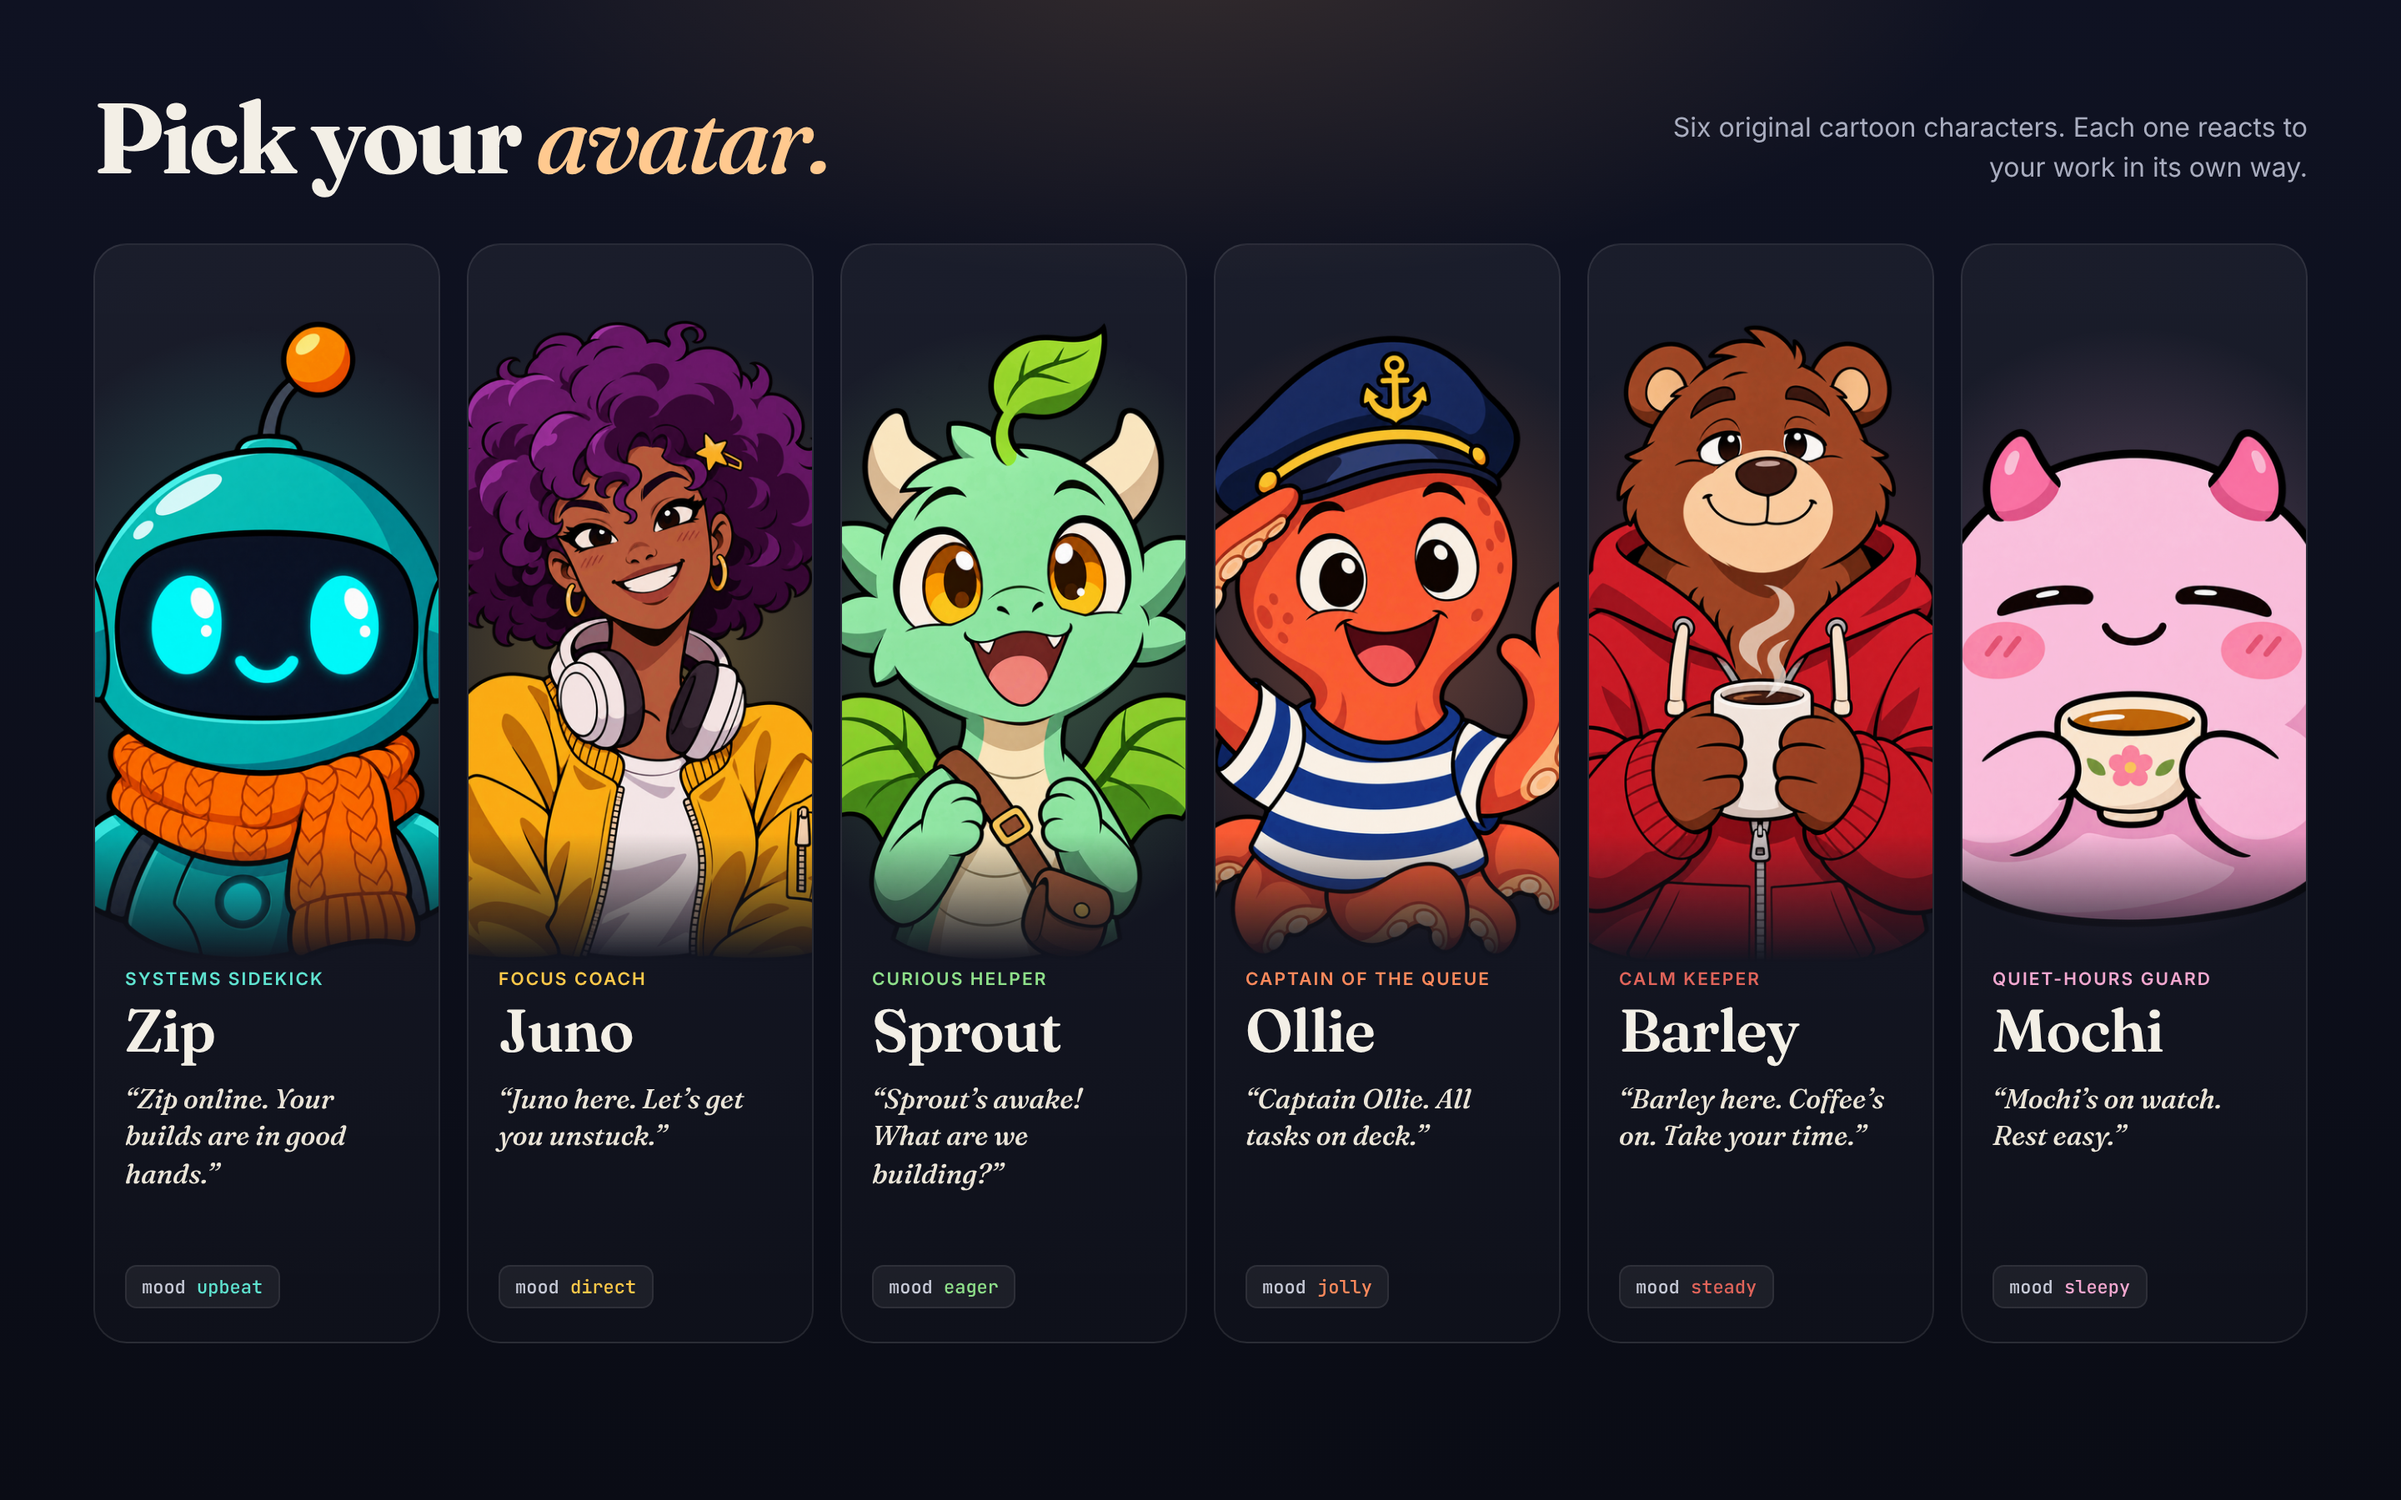
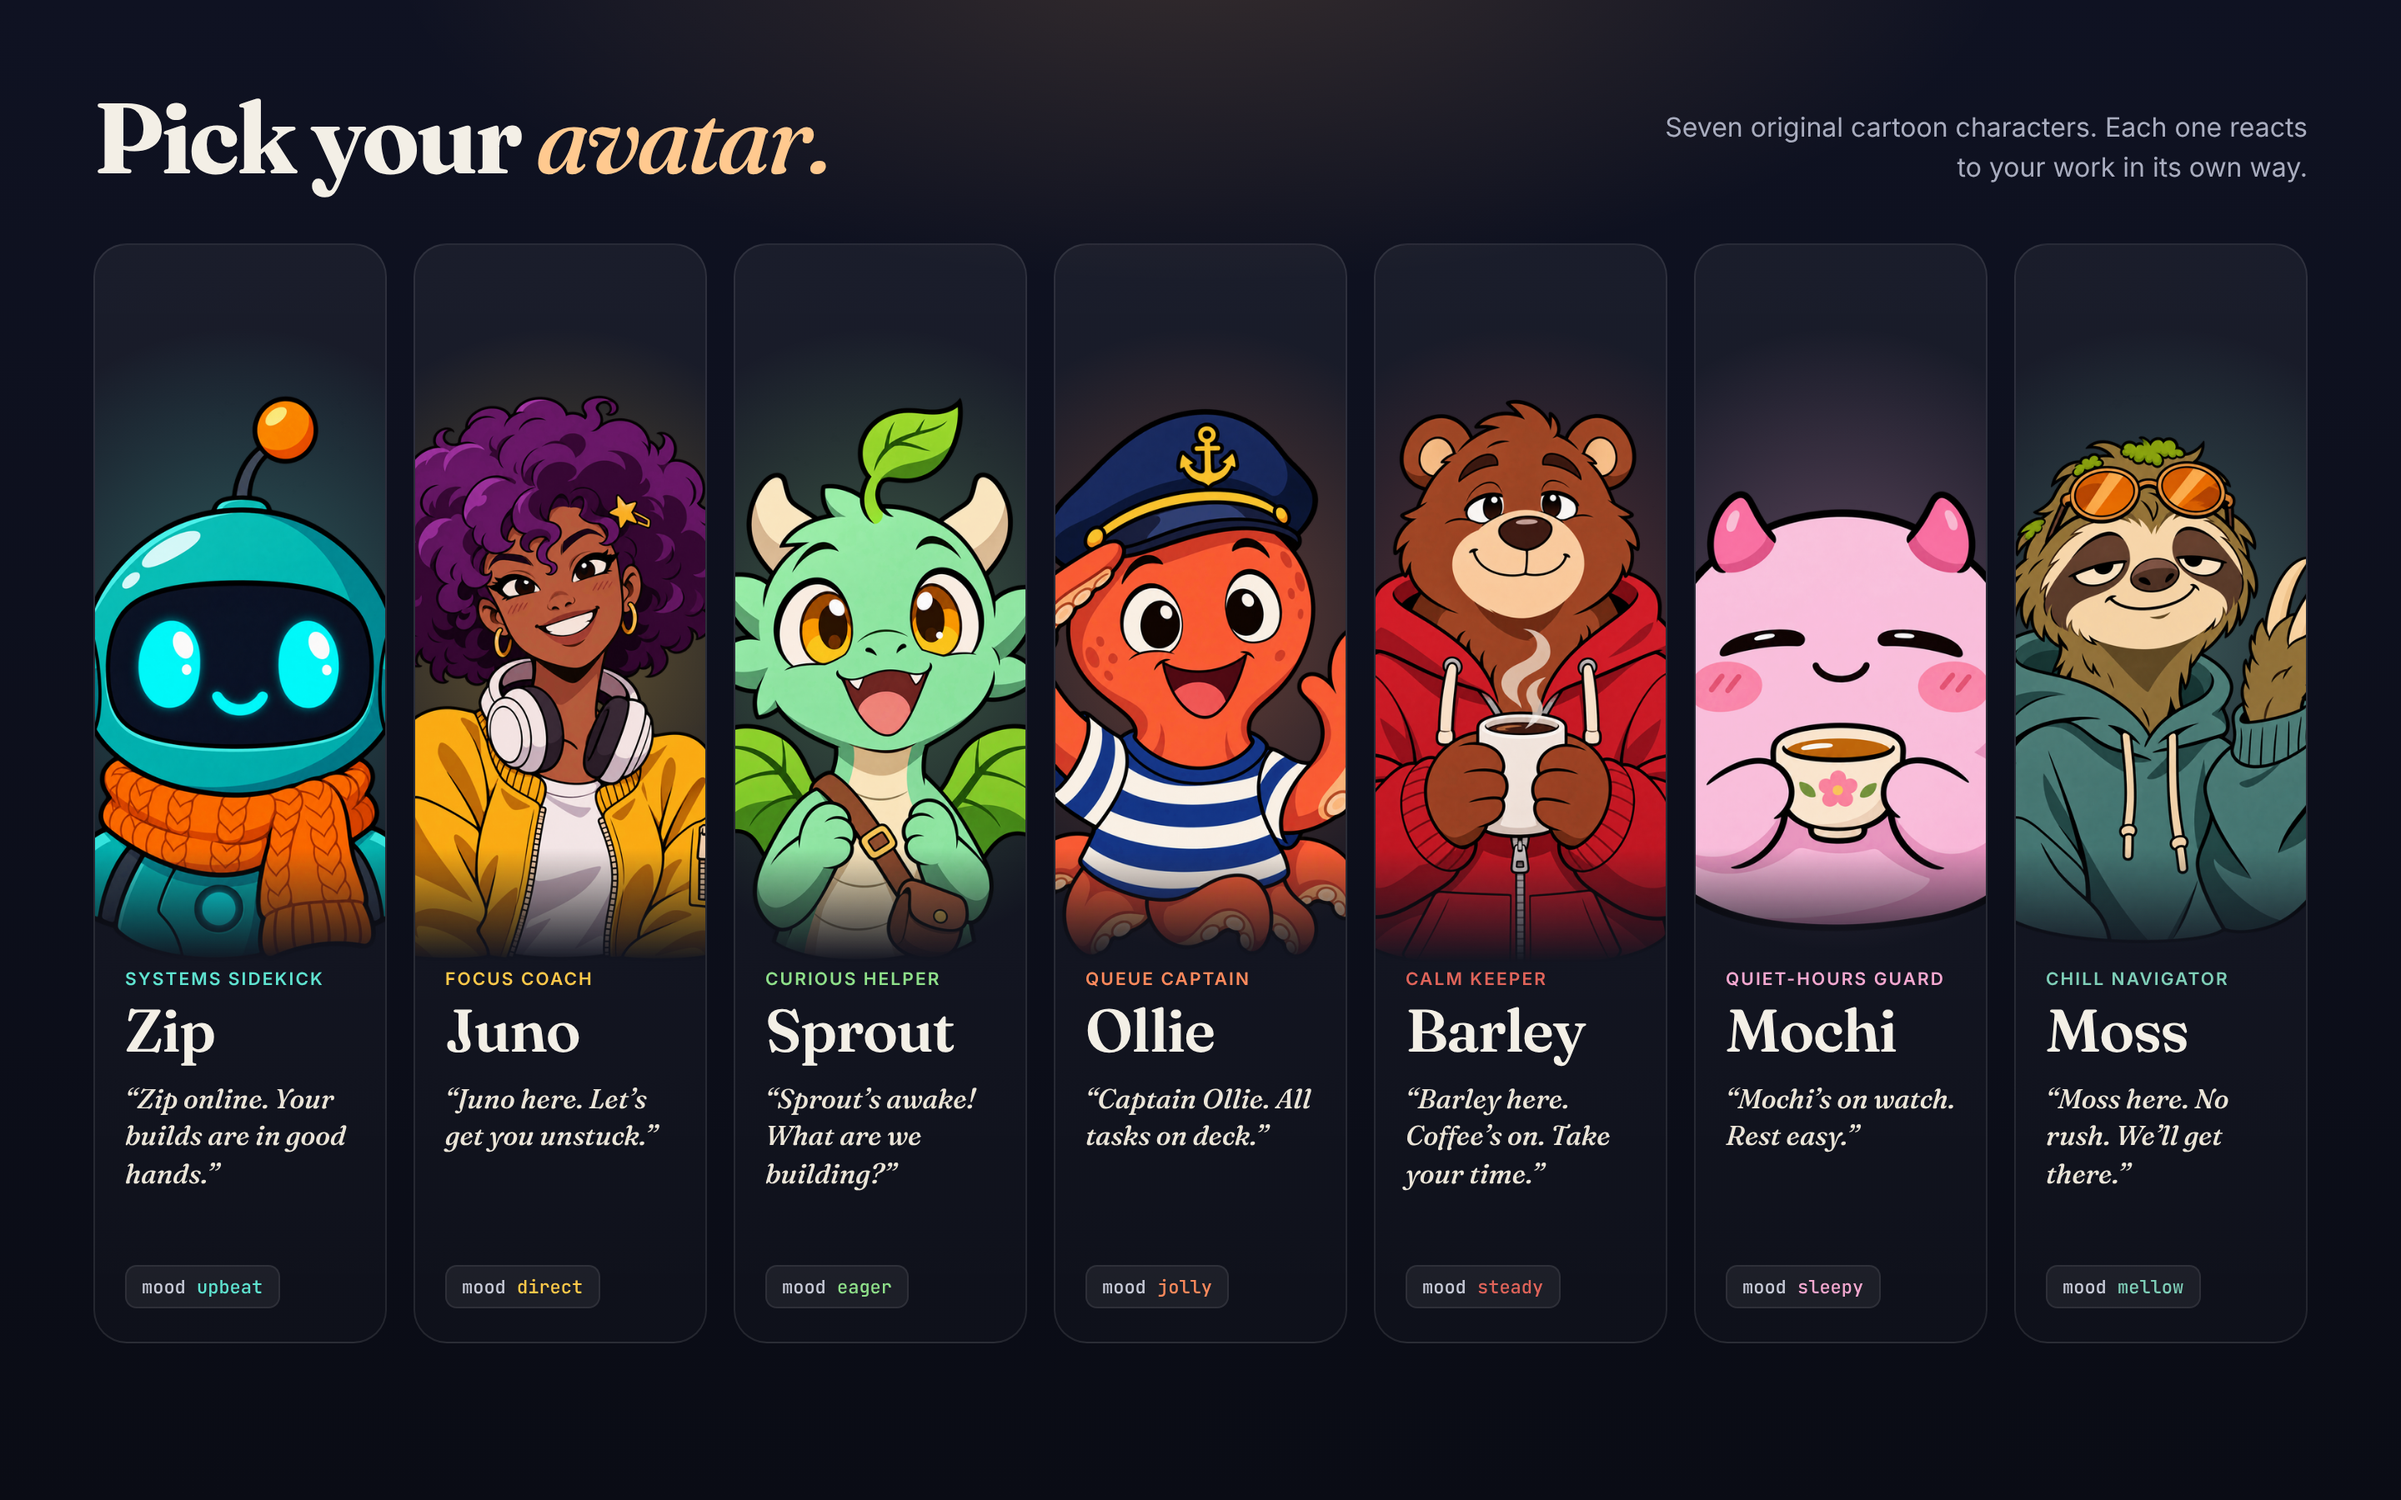
overlay: add Moss, a laid-back sloth, to the cartoon set
- New 2D persona Moss (art in overlay/avatars/toons/moss.png), with
  voice, role, greeting, and delivery style in main.js and kin-say.py.
- Picker: four columns, so all 13 personas fit without scrolling (the
  scrollbar is hidden, so a fifth row was easy to miss).
- docs: cast-toons.png now shows seven characters; README and DEMO say
  thirteen.

Claude-Session: https://claude.ai/code/session_01TxZr4QvqbLzUR8MBftmdr8

diff --git a/docs/promo-src/cast-toons.html b/docs/promo-src/cast-toons.html
@@ -12,11 +12,11 @@
   h2{font-family:Fraunces,serif;font-weight:700;font-size:60px;letter-spacing:-.03em;line-height:1}
   h2 em{font-style:italic;font-weight:500;color:#ffc98f}
   header p{font-size:16px;line-height:1.5;color:#a9adbf;width:400px;text-align:right}
-  .grid{display:grid;grid-template-columns:repeat(6,1fr);gap:16px}
+  .grid{display:grid;grid-template-columns:repeat(7,1fr);gap:16px}
   .card{--a:#ffb86b;position:relative;height:660px;border-radius:20px;overflow:hidden;display:flex;flex-direction:column;
     background:linear-gradient(180deg,rgba(255,255,255,.05),rgba(255,255,255,.02));border:1px solid rgba(255,255,255,.09)}
   .face{position:relative;height:430px;overflow:hidden;background:radial-gradient(240px 260px at 50% 55%, color-mix(in srgb,var(--a) 34%,transparent), transparent 72%)}
-  .face img{position:absolute;left:50%;bottom:0;height:385px;transform:translateX(-50%);-webkit-mask-image:linear-gradient(180deg,#000 80%,transparent 100%)}
+  .face img{position:absolute;left:50%;bottom:0;height:340px;transform:translateX(-50%);-webkit-mask-image:linear-gradient(180deg,#000 80%,transparent 100%)}
   
   
   .body{position:relative;flex:1;padding:4px 18px 20px;display:flex;flex-direction:column}
@@ -30,7 +30,7 @@
 <body><div class="stage">
   <header>
     <h2>Pick your <em>avatar.</em></h2>
-    <p>Six original cartoon characters. Each one reacts to your work in its own way.</p>
+    <p>Seven original cartoon characters. Each one reacts to your work in its own way.</p>
   </header>
   <div class="grid">
     <div class="card" style="--a:#5fe3d0">
@@ -50,7 +50,7 @@
         <span class="chip">mood <b>eager</b></span></div></div>
     <div class="card" style="--a:#ff8a5c">
       <div class="face"><img src="toons/ollie.png"></div>
-      <div class="body"><div class="role">Captain of the queue</div><div class="name">Ollie</div>
+      <div class="body"><div class="role">Queue captain</div><div class="name">Ollie</div>
         <div class="greet">“Captain Ollie. All tasks on deck.”</div>
         <span class="chip">mood <b>jolly</b></span></div></div>
     <div class="card" style="--a:#e0645a">
@@ -63,5 +63,10 @@
       <div class="body"><div class="role">Quiet-hours guard</div><div class="name">Mochi</div>
         <div class="greet">“Mochi’s on watch. Rest easy.”</div>
         <span class="chip">mood <b>sleepy</b></span></div></div>
+    <div class="card" style="--a:#7fcfb8">
+      <div class="face"><img src="toons/moss.png"></div>
+      <div class="body"><div class="role">Chill navigator</div><div class="name">Moss</div>
+        <div class="greet">“Moss here. No rush. We’ll get there.”</div>
+        <span class="chip">mood <b>mellow</b></span></div></div>
   </div>
 </div></body></html>

diff --git a/overlay/main.js b/overlay/main.js
@@ -883,6 +883,7 @@ const AVATAR_VOICES = {
   ollie: { voice: "ash", role: "Captain of the Queue", greet: "Captain Ollie. All tasks on deck.", instructions: "Jolly octopus ship captain: hearty, playful." },
   barley: { voice: "ballad", role: "Calm Keeper", greet: "Barley here. Coffee's on. Take your time.", instructions: "Calm bear: slow, warm, steady." },
   mochi: { voice: "shimmer", role: "Quiet-Hours Guard", greet: "Mochi's on watch. Rest easy.", instructions: "Sleepy soft creature: gentle, hushed, soothing." },
+  moss: { voice: "onyx", role: "Chill Navigator", greet: "Moss here. No rush. We'll get there.", instructions: "Laid-back sloth: slow, mellow, unbothered, a little amused." },
 };
 
 function speakCharacterLine(voice, text, instructions) {

diff --git a/overlay/index.html b/overlay/index.html
@@ -496,7 +496,8 @@
     border-radius: 12px;
     padding: 8px;
     display: none;
-    grid-template-columns: repeat(3, 1fr);
+    /* Four columns keep all 13 personas visible without scrolling. */
+    grid-template-columns: repeat(4, 1fr);
     gap: 5px;
     box-shadow: 0 18px 44px rgba(0, 0, 0, 0.7);
     max-height: 330px;
@@ -654,6 +655,7 @@ const PERSONAS = [
   { id: "ollie", label: "Ollie", kind: "2d" },
   { id: "barley", label: "Barley", kind: "2d" },
   { id: "mochi", label: "Mochi", kind: "2d" },
+  { id: "moss", label: "Moss", kind: "2d" },
 ];
 const is2D = (p) => p?.kind === "2d";
 

diff --git a/overlay/kin-2d.js b/overlay/kin-2d.js
@@ -8,7 +8,7 @@ const PDIR = "./avatars/persona-art/";
 // The cartoon personas are 2D only: their art lives in its own folder, apart
 // from persona-art/ (the 3D busts' picker renders).
 const TOON_DIR = "./avatars/toons/";
-const TOON_IDS = ["zip", "juno", "sprout", "ollie", "barley", "mochi"];
+const TOON_IDS = ["zip", "juno", "sprout", "ollie", "barley", "mochi", "moss"];
 const PORTRAIT_IDS = ["kin", "elena", "vance", "kael", "sera", "freya", ...TOON_IDS];
 const portraitSrc = (id, kind) =>
   `${TOON_IDS.includes(id) ? TOON_DIR : PDIR}${id}${kind ? `-${kind}` : ""}.png`;

diff --git a/overlay/tools/kin-say.py b/overlay/tools/kin-say.py
@@ -32,6 +32,7 @@ CHARACTERS = {
     "ollie": {"voice": "ash", "instructions": "Jolly octopus ship captain: hearty, playful.", "greet": "Captain Ollie. All tasks on deck."},
     "barley": {"voice": "ballad", "instructions": "Calm bear: slow, warm, steady.", "greet": "Barley here. Coffee's on. Take your time."},
     "mochi": {"voice": "shimmer", "instructions": "Sleepy soft creature: gentle, hushed, soothing.", "greet": "Mochi's on watch. Rest easy."},
+    "moss": {"voice": "onyx", "instructions": "Laid-back sloth: slow, mellow, unbothered, a little amused.", "greet": "Moss here. No rush. We'll get there."},
 }
 
 PORTRAIT_DIR = os.path.join(os.path.dirname(__file__), "..", "avatars", "persona-art")

diff --git a/DEMO.md b/DEMO.md
@@ -9,7 +9,7 @@ needed — rehearse once. Post on X tagging @NousResearch, keep it under 90s.
 | 0:08–0:22 | Point at the drawer: RUNNING section — "Launch Titanfall 2 VR mod — 5 background processes, 12 hours". Click the row; Hermes Desktop focuses that session. | "The task drawer is plain English: what's running, what it's doing, for how long. Click a row to jump to that session." |
 | 0:22–0:34 | Tap the mic button. The pill turns live, EQ bars move. Say: "What's the status of my Steam mod?" — the transcript lands in the Hermes composer as a draft. Show reviewing and pressing send. | "Voice is opt-in, and it never auto-sends — your words arrive as a draft you review." |
 | 0:34–0:48 | Focus a terminal with an error on screen; hit the Term icon. Kin OCRs it, sends it to Hermes; show Hermes diagnosing. | "Snap and Term ask Hermes about your screen — capture, OCR, diagnose." |
-| 0:48–1:00 | Switch persona (right-click the persona pill) — a different 3D bust swaps in and speaks a recap aloud; then pick a cartoon persona (Zip or Mochi) to show the 2D set. Meanwhile show the Hermes pane with the head reacting to a tool completing. | "Twelve personas, real moods — Kin reacts when a turn finishes, fails, or loops three times on the same call." |
+| 0:48–1:00 | Switch persona (right-click the persona pill) — a different 3D bust swaps in and speaks a recap aloud; then pick a cartoon persona (Zip or Mochi) to show the 2D set. Meanwhile show the Hermes pane with the head reacting to a tool completing. | "Thirteen personas, real moods — Kin reacts when a turn finishes, fails, or loops three times on the same call." |
 | 1:00–1:10 | Close on the Hermes Desktop Plugins settings page: Kin enabled. End card: repo URL. | "Plugin plus optional overlay, MIT, in the Hermes plugin catalog. Kin." |
 
 ## Tips

diff --git a/README.md b/README.md
@@ -4,11 +4,11 @@
 
 Avatar (plugin name `kin`) puts a 3D or cartoon companion in [Hermes Desktop](https://hermes-agent.nousresearch.com/docs/user-guide/desktop). Your avatar watches your sessions. It tells you when a task is stuck, done, or waiting on you. It writes drafts and never sends for you.
 
-Pick one of twelve original characters: six 3D busts and six 2D cartoons. Each one has a voice of their own.
+Pick one of thirteen original characters: six 3D busts and seven 2D cartoons. Each one has a voice of their own.
 
 ![Pick your avatar: Kin, Elena, Vance, Kael, Sera, and Freya](docs/cast.png)
 
-![Cartoon avatars: Zip, Juno, Sprout, Ollie, Barley, and Mochi](docs/cast-toons.png)
+![Cartoon avatars: Zip, Juno, Sprout, Ollie, Barley, Mochi, and Moss](docs/cast-toons.png)
 
 An optional **floating overlay** (`overlay/`) puts your avatar on top of your desktop. Its eyes follow your cursor. A task drawer shows what Hermes is doing in plain English, and you can talk to Hermes by voice. The overlay is strictly opt-in.
 
